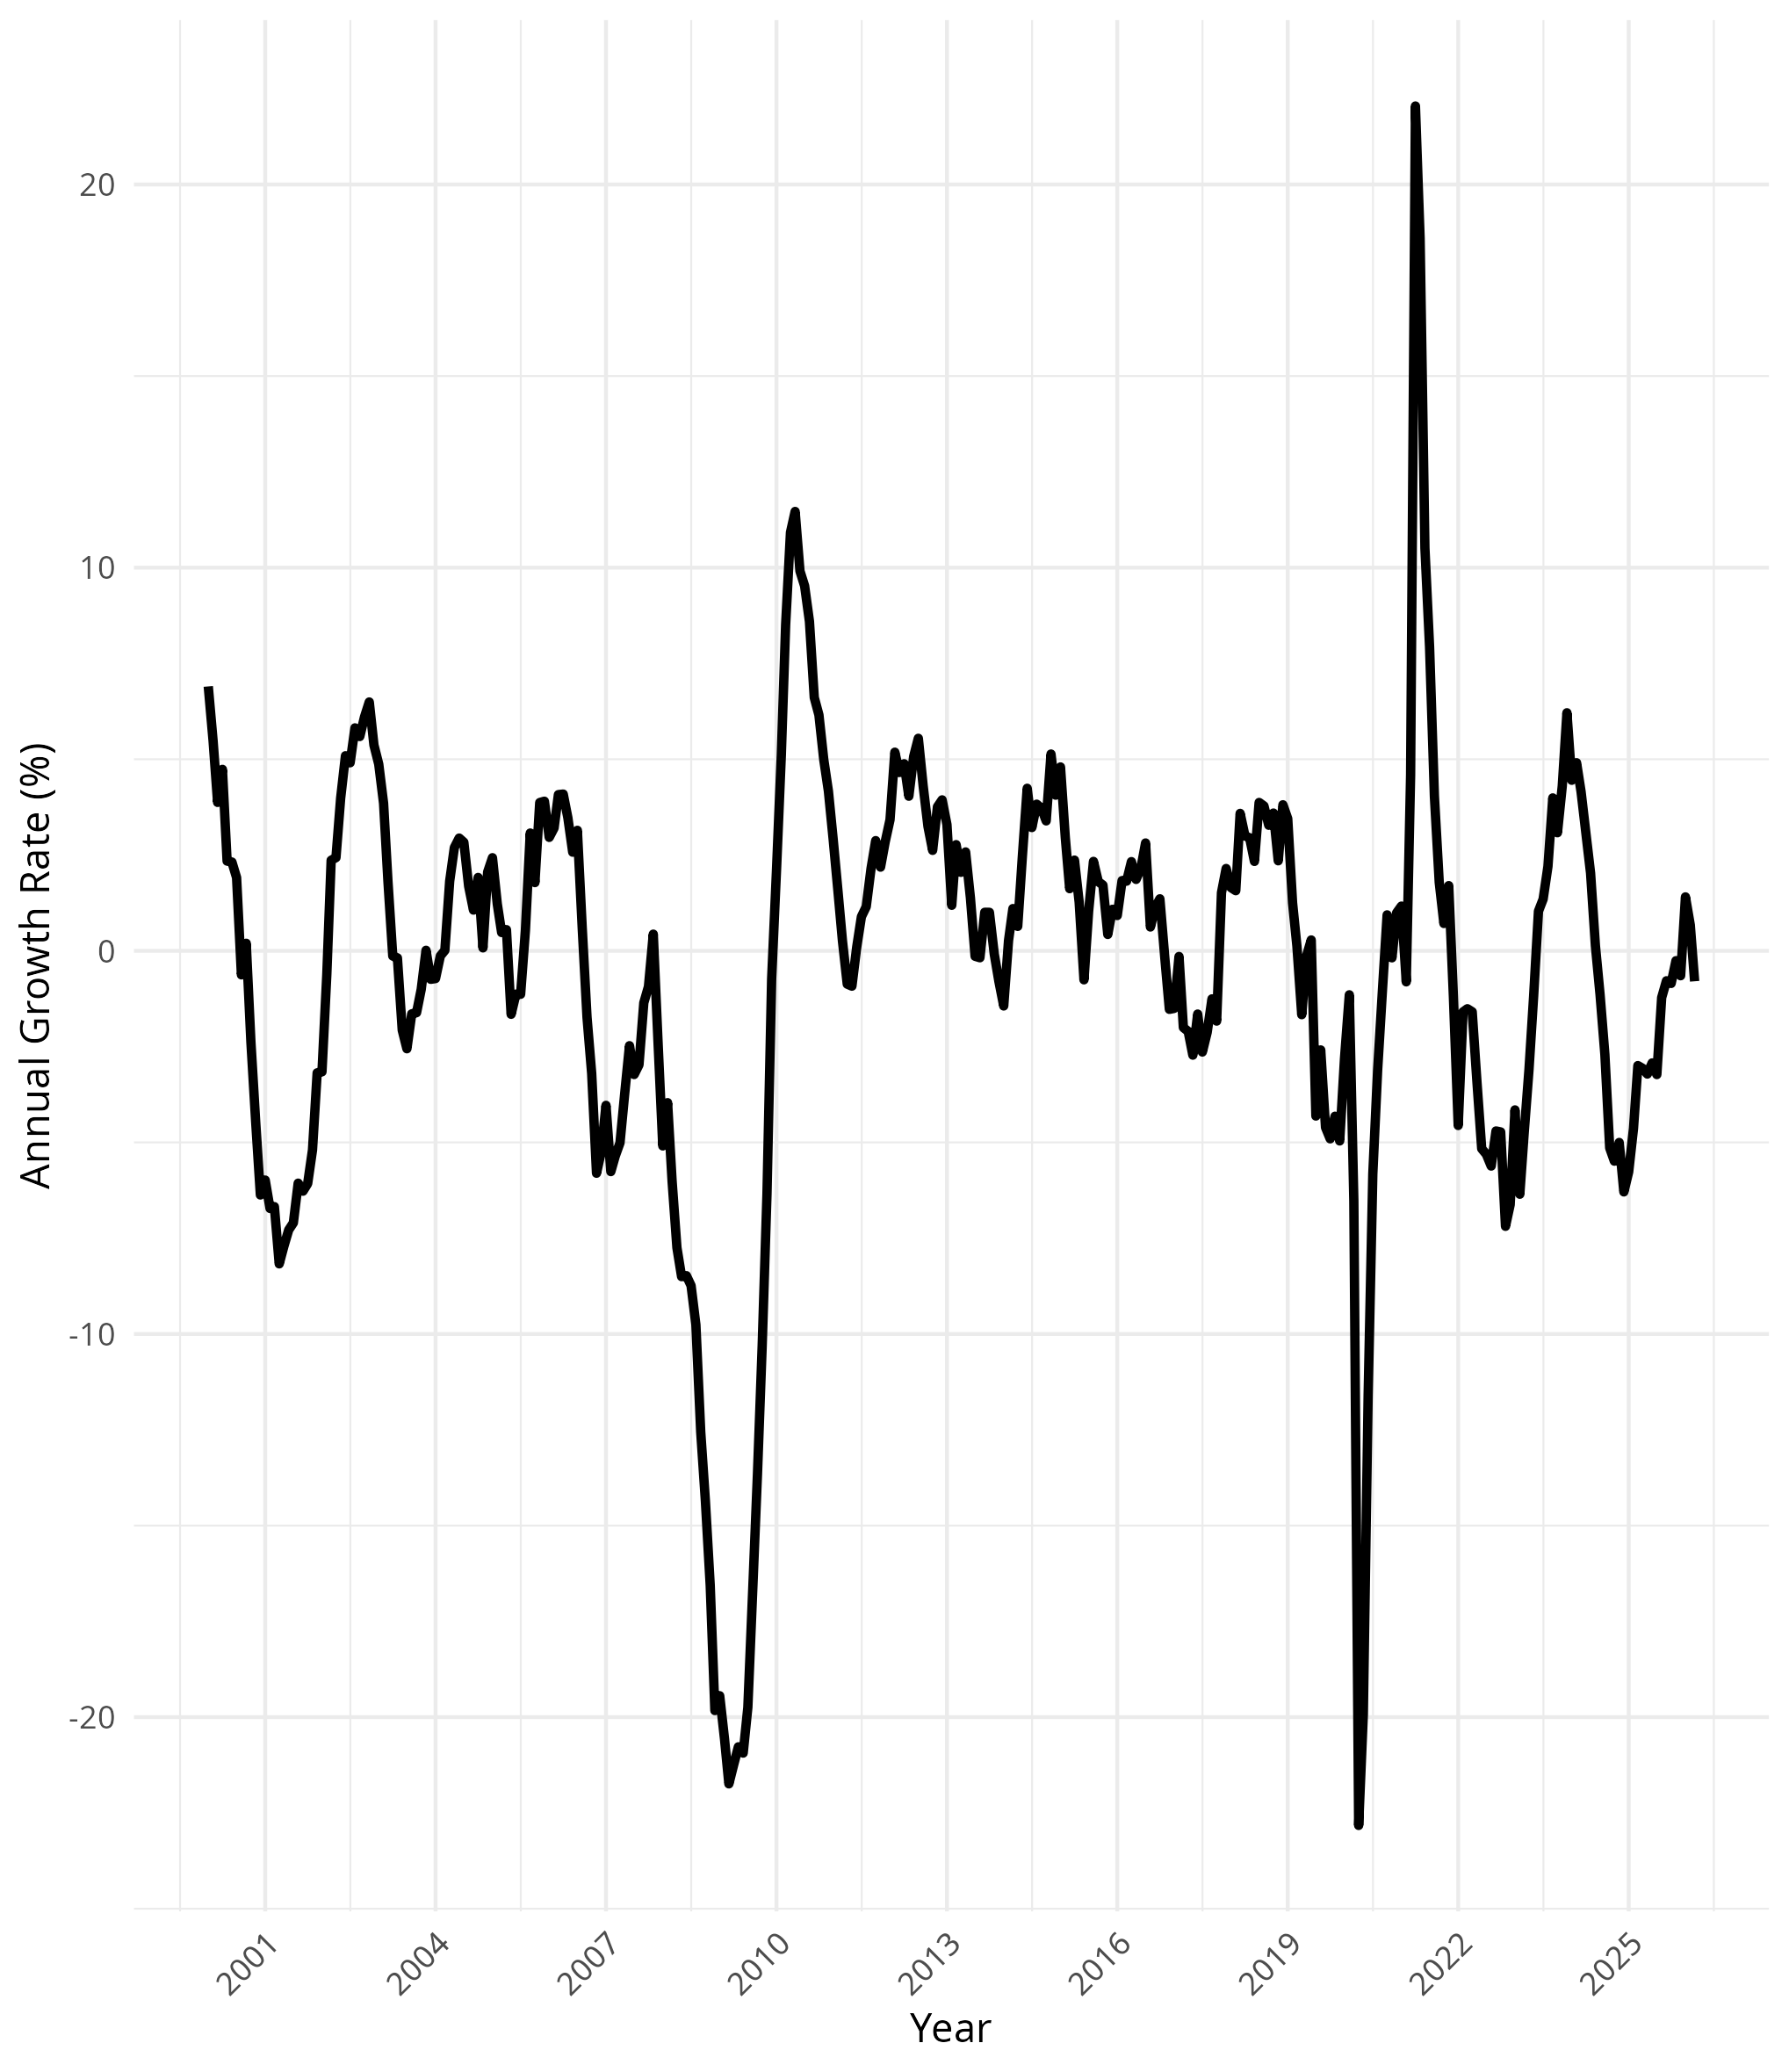
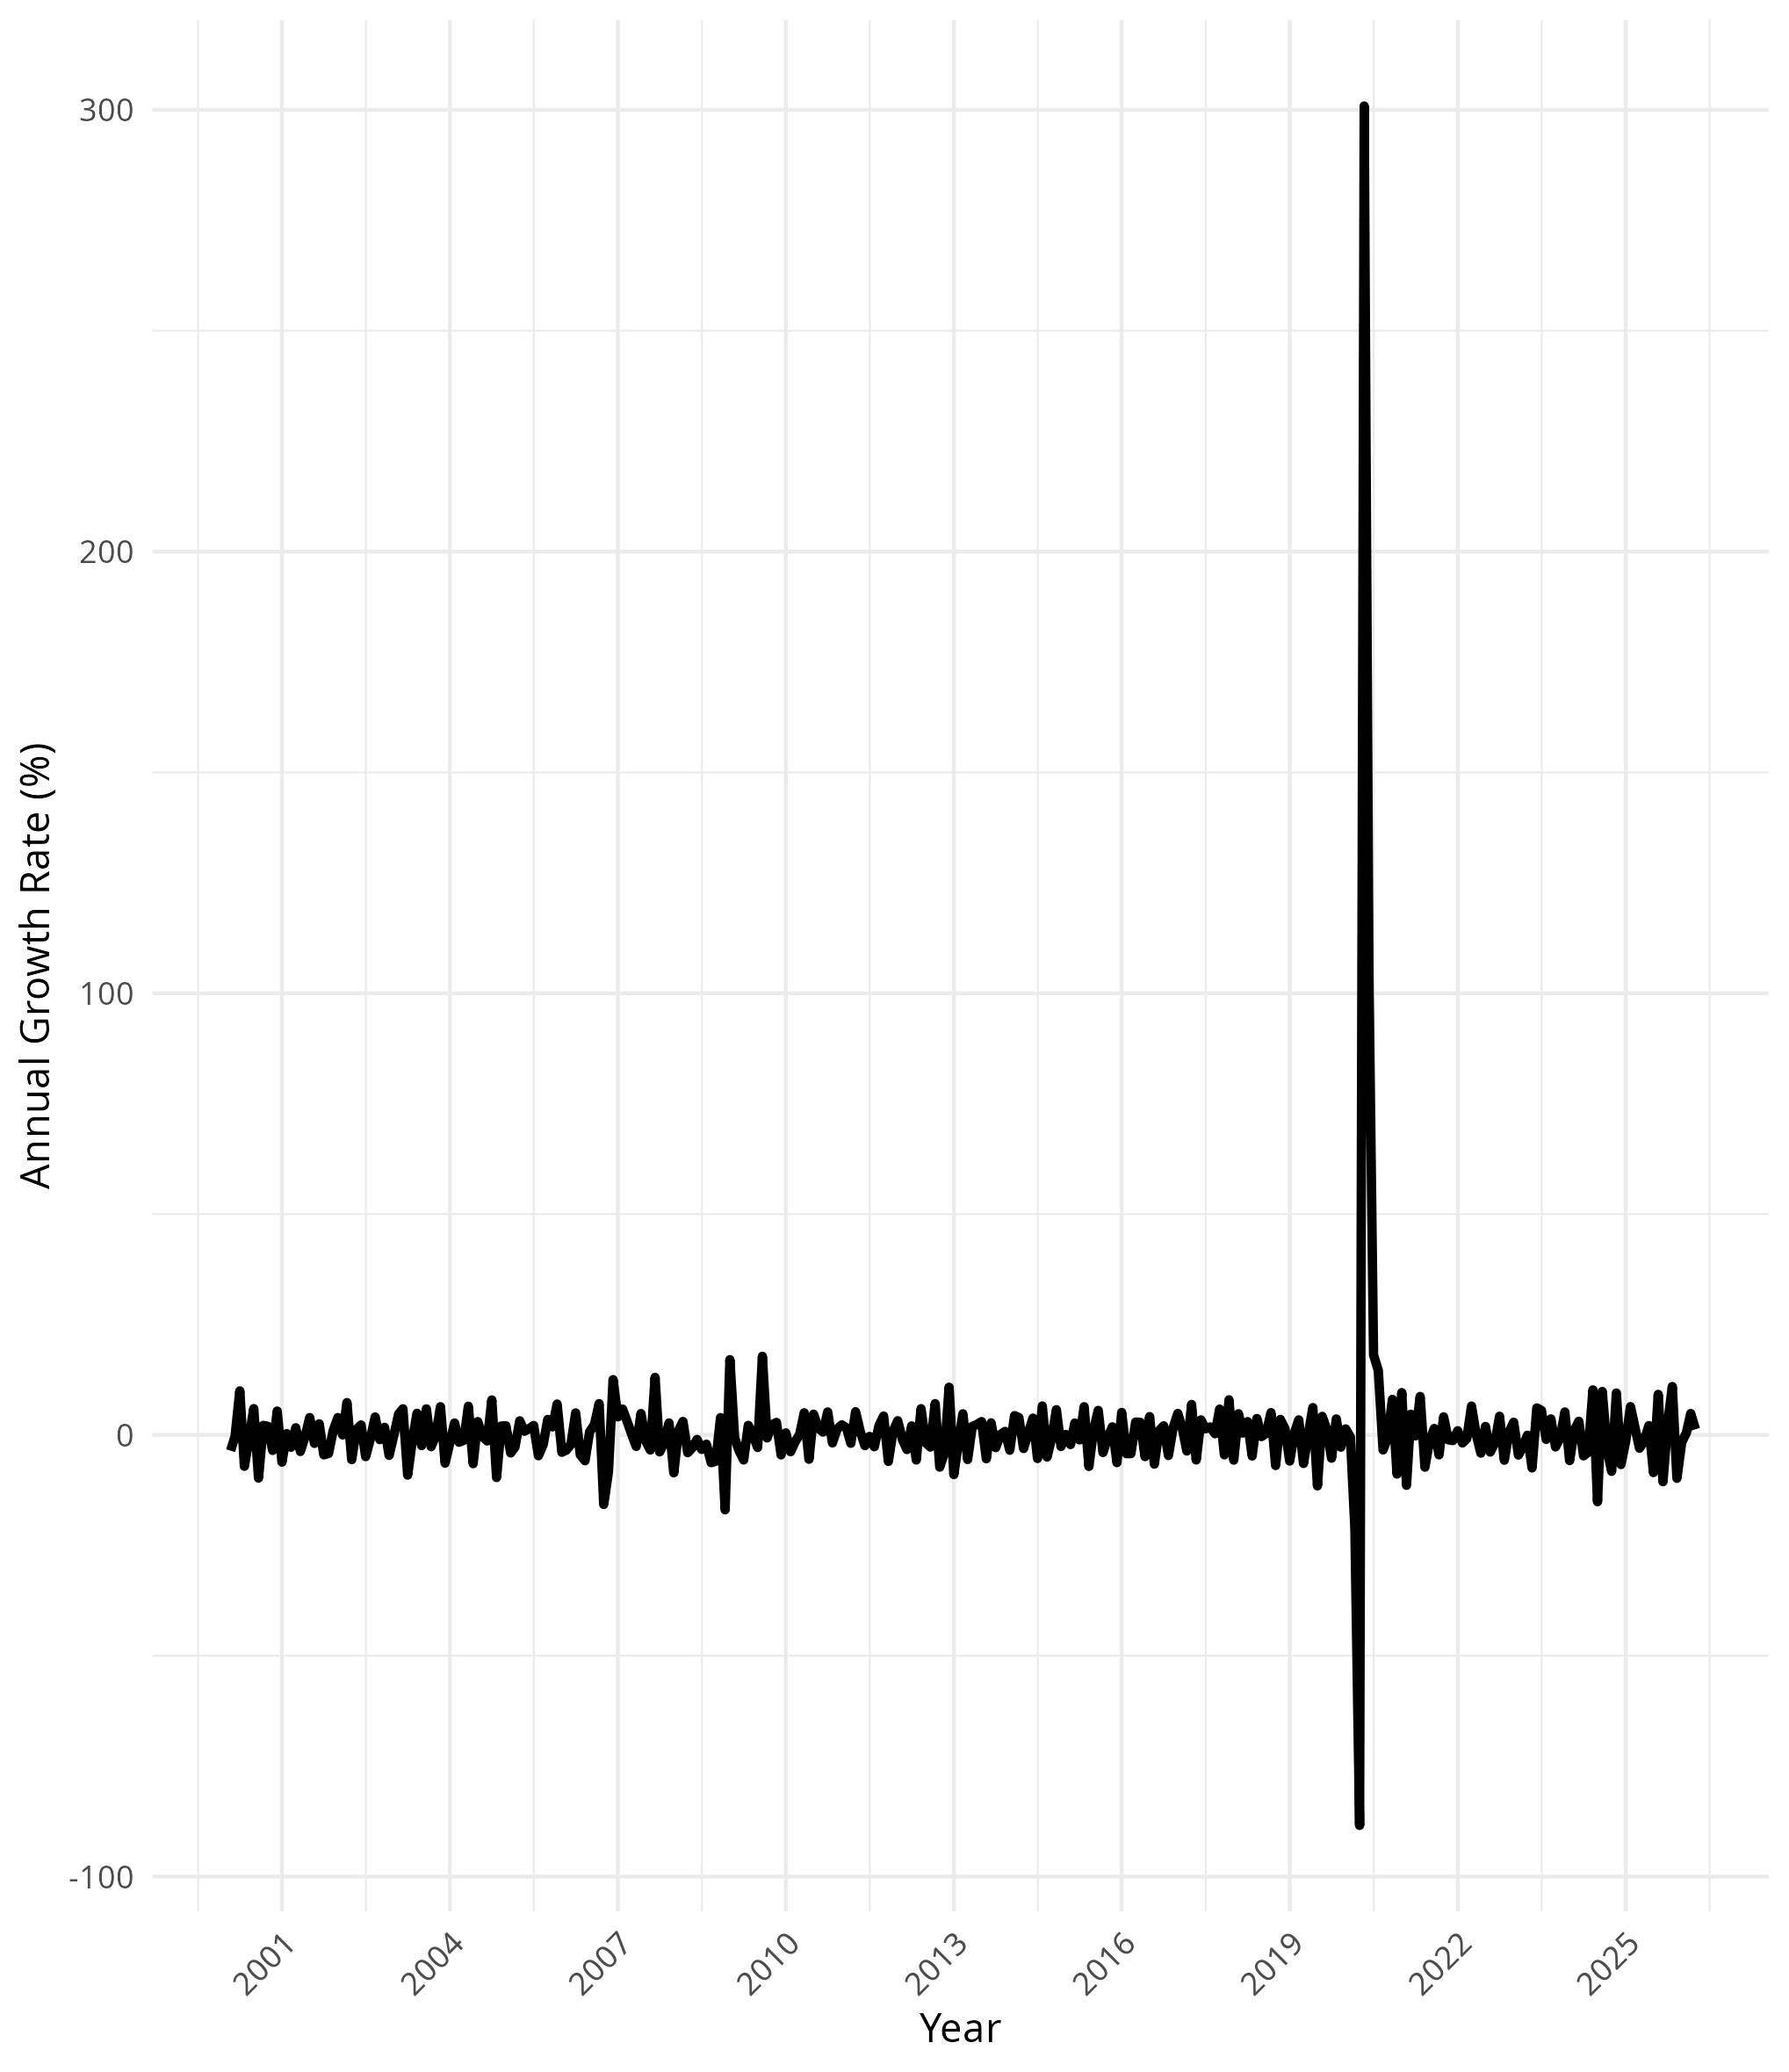
dont know anymore...

diff --git a/report.tex b/report.tex
@@ -1,11 +1,11 @@
 \documentclass{article}
-\usepackage{graphicx} % Required for inserting images
+\usepackage{graphicx}
 \usepackage{float}
+
 \title{Explaining the 21st-century US tire industry decline via the price divergence between domestic and foreign tires}
 \author{Michal Stránský, Lukáš Doležal, Jakub Černý}
 
 \begin{document}
-
 \maketitle
 \subsection*{Content}
 Why tire industry is in such decline\\
@@ -81,68 +81,55 @@ korelace
 cena (domacich)/zaharnicnich pneumatik, vuci volume
 \section{Development of tire production in the U.S. }
 
-As illustrated in Figure \ref{fig:figure1}, U.S. domestic tire production was largely stagnant at the beginning of the 21st century. Production began at a level of 127.5 and ended at 124.3 (the year 2017 serves as the base year) by the third quarter of 2007. Between 2008 and 2010, production experienced a sharp decline up to 20 percentage points. Although production initially saw a dramatic recovery in 2010, it quickly returned to a state of stagnation. Subsequently, the COVID-19 Pandemic triggered another severe contraction, with production dropping by more than 20 percent, though it rebounded by roughly 20 percent shortly after. Following this recovery, production began to stagnate and eventually after Russian-Ukrainian war started contracting even more. By the fourth quarter of 2020, the production level stood at 99.8, representing a slight decrease from Q4 2019, and ultimately fell to 72.8 by Q1 2026. 
+As illustrated in Figure \ref{fig:figure1}, U.S. domestic tire production was largely stagnant at the beginning of the 21st century. Production began at a level of 127.5 and ended at 124.3 (the year 2017 serves as the base year) by the third quarter of 2007. Between 2008 and 2010, production experienced a sharp decline up to 20 percentage points, as demonstrated in Figure \ref{fig:figure2}. Although production initially saw a dramatic recovery in 2010, it quickly returned to a state of stagnation. Subsequently, the COVID-19 Pandemic triggered another severe contraction, with production dropping by more than 20 percent, though it rebounded by roughly 20 percent shortly after. Following this recovery, production began to stagnate and eventually after Russian-Ukrainian war started contracting even more. By the fourth quarter of 2020, the production level stood at 99.8, representing a slight decrease from Q4 2019, and ultimately fell to 72.8 by Q1 2026. 
 
 The median growth rate stands at 0.43 percent and a mean at -0.58 percent. The maximum and minimum growth values were recorded at 22.04 percent in Q2 2021 and -22.82 percent in Q2 2020, respectively. The standard deviation of growth rates is 5.89 and for volumes of production stands at nearly 7.48. The median growth of the total US industrial production is nearly 1.63 and the mean is 0.58 percentage points. In comparison to the tire industry growth both values are higher. Although the maximum rate of growth was lower at 16.55 percent in 2021 in comparison to the tire industry, but the minimum value is larger as it stands at -17.31 in 2020. Both largest recoveries and slumps occurred in the same period during COVID-19 Pandemic.
 
 \begin{figure}[H]
     \centering
-    \includegraphics[width=0.5\textwidth]{images/timeseries_productionvolume.png}
-    \caption{Distribution of growth rates}
-    \label{fig:figure1}
+    \begin{minipage}{0.48\textwidth}
+        \centering
+        \includegraphics[width=\linewidth]{images/timeseries_productionvolume.png}
+        \caption{U.S. domestic tire production volume}
+        \label{fig:figure1}
+    \end{minipage}\hfill 
+    \begin{minipage}{0.48\textwidth}
+        \centering
+        \includegraphics[width=\linewidth]{images/timeseries_growthrates.png}
+        \caption{Tire production growth rates}
+        \label{fig:figure2}
+    \end{minipage}
 \end{figure}
 
-Furthermore, the accompanying boxplot, which is Figure \ref{fig:figure2}, indicates that the distribution of growth rates is rather left-skewed. This skewness is supported by the fact that the mean is being lower than the median. It is also notable that the majority of outliers fall below the mean, suggesting that the industry experienced a greater frequency of sharp declines compared to sudden recoveries. Prominent examples of these outliers include the drastic drop during the aforementioned COVID-19 pandemic, as well as the subsequent recovery phase in 2021.
+Furthermore, the accompanying boxplot, which is Figure \ref{fig:figure6}, indicates that the distribution of growth rates is rather left-skewed. This skewness is supported by the fact that the mean is being lower than the median. It is also notable that the majority of outliers fall below the mean, suggesting that the industry experienced a greater frequency of sharp declines compared to sudden recoveries. Prominent examples of these outliers include the drastic drop during the aforementioned COVID-19 pandemic, as well as the subsequent recovery phase in 2021.
 
 \begin{figure}[H]
     \centering
     \includegraphics[width=0.5\textwidth]{images/boxplot.png}
     \caption{Distribution of growth rates}
-    \label{fig:figure2}
+    \label{fig:figure6}
 \end{figure}
 
 \section{Mapping global imports to the U.S.}
-Figure \ref{fig:figure3} shows a right‑skewed histogram of tire imports to the US in 2025 from the forty countries with the largest import volumes. The graph indicates that the most countries supply from few hundreds to few thousands of tires while a small number supply very large quantities. The smallest recorded import is 533 tires from Russia, this low figure is probably because of sanctions imposed on Russia since 2022, although some tire shipments have still probably occurred. Thailand is the largest supplier in the dataset, which is probably because of Thailand’s leading role in global natural rubber production, which was about 36 percent of global supply in 2025, and also that Thailand is known as ‘Detroit of Asia’.
+Figure \ref{fig:figure7} shows a right‑skewed histogram of tire imports to the US in 2025 from the forty countries with the largest import volumes. The graph indicates that the most countries supply from few hundreds to few thousands of tires while a small number supply very large quantities. The smallest recorded import is 533 tires from Russia, this low figure is probably because of sanctions imposed on Russia since 2022, although some tire shipments have still probably occurred. Thailand is the largest supplier in the dataset, which is probably because of Thailand’s leading role in global natural rubber production, which was about 36 percent of global supply in 2025, and also that Thailand is known as ‘Detroit of Asia’.
 
 \begin{figure}[H]
     \centering
     \includegraphics[width=0.45\textwidth]{images/histogram-of-importers.png}
     \caption{Histogram of tire importers}
-    \label{fig:figure3}
+    \label{fig:figure7}
 \end{figure}
 
-Figure \ref{fig:figure3} is highly right-skewed, it is only seen that most of the observations are near zero with few extremes in hundreds of millions of units. Figure \ref{fig:figure4} which is a histogram using logarithmic scale, gives a better picture of the distribution. Additionally, multiple peaks are revealed. The bulk of the import values form a primary cluster between 10 million and 1 billion, alongside a smaller grouping of lower value imports in the tens of thousands. 
+Figure \ref{fig:figure7} is highly right-skewed, it is only seen that most of the observations are near zero with few extremes in hundreds of millions of units. Figure \ref{fig:figure8} which is a histogram using logarithmic scale, gives a better picture of the distribution. Additionally, multiple peaks are revealed. The bulk of the import values form a primary cluster between 10 million and 1 billion, alongside a smaller grouping of lower value imports in the tens of thousands. 
 
 \begin{figure}[H]
     \centering
     \includegraphics[width=0.45\textwidth]{images/loghistogram-of-importers.png}
     \caption{Logarithmic histogram of importers}
-    \label{fig:figure4}
-\end{figure}
-
-\section{Comparison part}
-The 4 compared values are Producer price index, Import price index, Consumer price index, and harmonized price index, in the tire industry. The producer price index measures the change in expanses for domesticate producers in the specific industry, and the import price index measures the change in the price of imported goods. Harmonized index is created using the total volume of tires imported to the USA, divided by the total value of imported tires. The consumer price index measures the price of the good for consumers.
-We can see relatively strong correlation between all four values. As all of them are connected to the price of tires, it can be assumed, that certain factors, such as the price of raw materials, the demand for tires or global economic crises, would affect these values in a similar way. Therefore, it is not surprising that all correlations of these values are very high and between 0.87 and 0.98. We can also look at their average growth using CAGR coefficient, it can be argued that in this situation it’s superior to average change, as it is more informative about total difference. Greatest change of about 0.25\% per month was in PPI, HS was about 0.21\% and IPI and CPI were both under 0.16\% per month. This implies that domestic prices grew faster than imported, and it can be assumed that this could have created some decline in domestic production. All values sharply increased in early 2020s, and while PPI remained high, all other values slightly decreased. 
-\begin{figure}[H]
-    \centering
-    \includegraphics[width=0.45\textwidth]{images/TimSeriesHSIZPCUBLS.png}
-    \label{fig:figure8}
-\end{figure}
- When we compare PPI and IPI, we can see, that their behavior was similar until 2011, in that time IPI started to grow faster than, but in 2014, it was overcome by PPI, and since than was PPI much greater. Since 2015 was therefore relatively cheaper to buy imported pneumatics, compared to year 2000. This difference has increased in the last few years.  When we compare PPI and IPI, we can see, that their behavior was similar until 2011, in that time IPI started to grow faster than, but in 2014, it was overcome by PPI, and since than was PPI much greater. Since 2015 was therefore relatively cheaper to buy imported pneumatics, compared to year 2000. This difference has increased in the last few years. 
- 
-\begin{figure}[H]
-    \centering
-    \includegraphics[width=0.45\textwidth]{images/PcuIzCorellation.png}
-    \label{fig:figure8}
-\end{figure}
-When we compare HS index and PPI. We can see that this coefficient behaved similarly. When both values increased in 2011 and during 19 pandemic, HS price was more sensitive, possibly due to caution, and fear of rise of price from producers. Contrary to PPI, HS again decreased after the pandemic, possibly due to cheaper imported goods. 
-\begin{figure}[H]
-    \centering
-    \includegraphics[width=0.45\textwidth]{images/PpiHsCorellation.png}
     \label{fig:figure8}
 \end{figure}
 
-\section{Corelation part}
+\section{Comparision part}
 Due to imports of tires into USA have seasonal trends, we seasonally adjusted data ( both volumes and prices).
  
 \subsection{Results} 